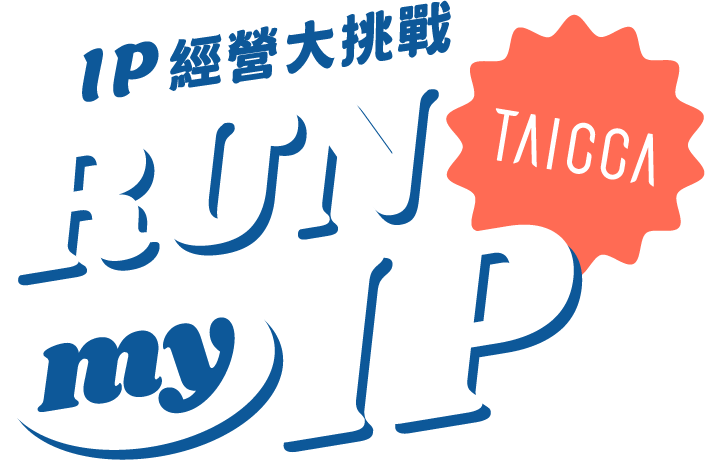
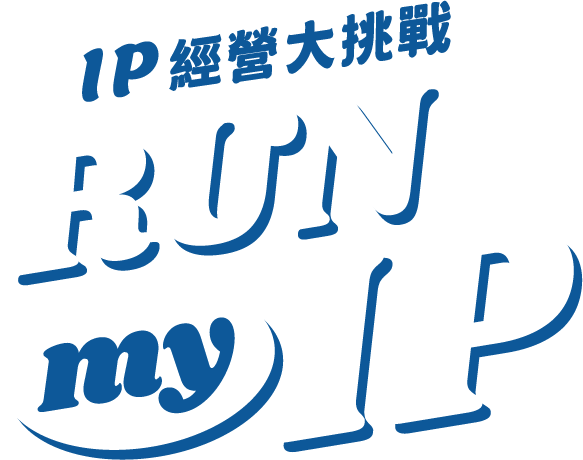
fix: 首頁調整

diff --git a/src/sections/StartSection.tsx b/src/sections/StartSection.tsx
@@ -1,8 +1,31 @@
 import buttonStyles from "@/styles/Button.module.css";
 import styles from "@/styles/Start.module.css";
-import { motion } from "framer-motion";
+import { motion, useAnimation } from "framer-motion";
+import { useEffect } from "react";
 
 function StartSection({ onStartClicked }: { onStartClicked?: () => void }) {
+    const controls = useAnimation();
+
+    useEffect(() => {
+        controls
+            .start({
+                scale: 1,
+                transition: { duration: 0.5, ease: "backInOut" },
+            })
+            .then(() => {
+                controls.start({
+                    scale: [1, 1.1, 1],
+                    transition: {
+                        delay: 1,
+                        repeatDelay: 1.5,
+                        duration: 0.4,
+                        repeat: Infinity,
+                        ease: "easeInOut",
+                    },
+                });
+            });
+    }, []);
+
     return (
         <div className={styles.startContainer}>
             <div className={styles.bg}>
@@ -23,15 +46,16 @@ function StartSection({ onStartClicked }: { onStartClicked?: () => void }) {
 
                 <motion.img
                     className={styles.title}
-                    initial={{ translateX: "-50%", opacity: 0, y: 20 }}
-                    whileInView={{ opacity: 1, y: 0 }}
-                    transition={{
-                        delay: 0.3,
-                        duration: 1,
-                        ease: "linear",
-                    }}
+                    initial={{ x: "-50%", scale: 0 }}
+                    animate={controls}
                     alt="title"
                     src="/assets/start/title.png"
+                />
+
+                <img
+                    className={styles.badge}
+                    alt="badge"
+                    src="/assets/start/badge.png"
                 />
 
                 <img
@@ -39,12 +63,68 @@ function StartSection({ onStartClicked }: { onStartClicked?: () => void }) {
                     alt="character"
                     src="/assets/start/character.png"
                 />
+
+                <motion.img
+                    className={styles.starLT}
+                    animate={{
+                        scale: [1, 1.2, 1],
+                    }}
+                    transition={{
+                        duration: 1,
+                        repeat: Infinity,
+                        ease: "easeInOut",
+                    }}
+                    alt="star"
+                    src="/assets/start/star.png"
+                />
+                <motion.img
+                    className={styles.starRT}
+                    animate={{
+                        scale: [1, 1.2, 1],
+                    }}
+                    transition={{
+                        duration: 1,
+                        repeat: Infinity,
+                        ease: "easeInOut",
+                        delay: 0.6,
+                    }}
+                    alt="star"
+                    src="/assets/start/star.png"
+                />
+                <motion.img
+                    className={styles.starLB}
+                    animate={{
+                        scale: [1, 1.2, 1],
+                    }}
+                    transition={{
+                        duration: 1,
+                        repeat: Infinity,
+                        ease: "easeInOut",
+                        delay: 0.2,
+                    }}
+                    alt="star"
+                    src="/assets/start/star.png"
+                />
+                <motion.img
+                    className={styles.starRB}
+                    animate={{
+                        scale: [1, 1.2, 1],
+                    }}
+                    transition={{
+                        duration: 1,
+                        repeat: Infinity,
+                        ease: "easeInOut",
+                        delay: 0.4,
+                    }}
+                    alt="star"
+                    src="/assets/start/star.png"
+                />
             </div>
 
             <button
                 onClick={onStartClicked}
                 className={buttonStyles.button}
-                style={{ width: "65%" }}
+                style={{ width: "85%" }}
             >
                 START
             </button>

diff --git a/src/styles/Start.module.css b/src/styles/Start.module.css
@@ -15,7 +15,7 @@
     border-radius: 1000px;
     border: 8px solid white;
 
-    width: 80%;
+    width: 90%;
     aspect-ratio: 0.5874;
     margin-bottom: 40px;
 
@@ -35,7 +35,7 @@
 
 .bgCircle {
     width: 140%;
-    bottom: -50%;
+    bottom: -58%;
     left: 50%;
     transform: translateX(-50%);
     position: absolute;
@@ -43,17 +43,57 @@
 
 .character {
     width: 110%;
-    bottom: 60px;
-    left: calc(50% - 12px);
+    bottom: 32px;
+    left: calc(50% - 16px);
     transform: translateX(-50%);
     position: absolute;
+
+    z-index: 3;
 }
 
 .title {
     position: absolute;
-    width: 90%;
-    top: 3%;
-    left: 60%;
+    width: 80%;
+    top: 24px;
+    left: 50%;
     transform: translateX(-50%);
+    z-index: 2;
+}
+
+.badge {
+    position: absolute;
+    right: -8px;
+    top: 40px;
+
+    width: 30%;
+}
+
+.starLT {
+    position: absolute;
+    width: 8%;
+    top: 38%;
+    left: 0;
+    z-index: 4;
+}
+.starRT {
+    position: absolute;
+    width: 18%;
+    top: 38%;
+    right: 4%;
+    z-index: 4;
+}
+.starLB {
+    position: absolute;
+    width: 14%;
+    top: 58%;
+    right: -1%;
+    z-index: 4;
+}
+.starRB {
+    position: absolute;
+    width: 12%;
+    top: 68%;
+    left: 2%;
+    z-index: 4;
 }
 
